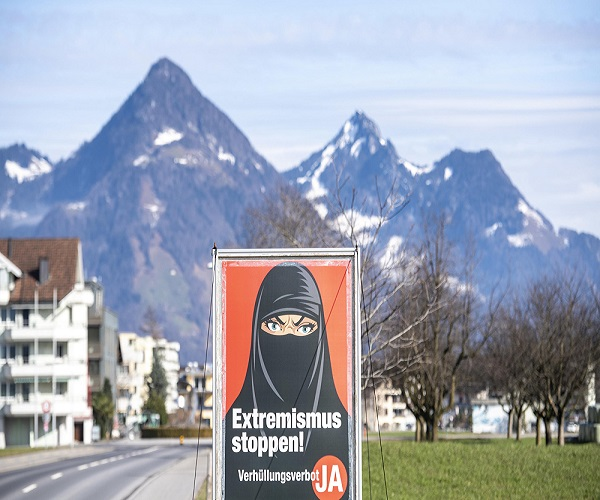
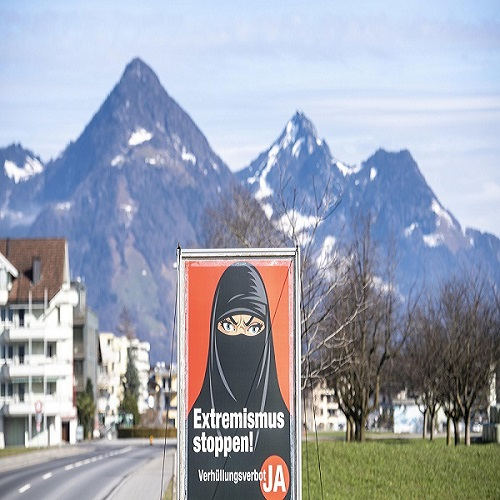
publish

diff --git a/Logics/autogenWorks.js b/Logics/autogenWorks.js
@@ -355,6 +355,60 @@ var DocuVale = [
     "content": [
         {
             "type": "end_preview",
+            "value": "Ristrutturato dopo quattro anni di lavori, il <a class=\"article_content_link_label_inline\" target=\"_blank\" href=\"https://www.parigi.it/it/museo_carnavalet.php\">Musée Carnavalet</a> di Parigi, dedicato alla storia della Ville Lumière, è in procinto di riaprire non appena il limbo pandemico lo consentirà. L’iniziativa del museo prevederebbe che alcuni percorsi guidati, principalmente quelli destinati a utenti con disabilità, vedranno l’uso dei numeri arabi in luogo di quelli romani. Tale decisione, che per altro fa seguito a una iniziativa simile dell’ancor più noto <strong>Louvre</strong>, è stata giustificata dalla curatrice Noémie Giard con il desiderio di “<strong>essere più vicini ai visitatori</strong>”, poiché “i numeri romani non possono diventare un ostacolo alla comprensione”. [...]"
+        },
+        {
+            "type": "text",
+            "value": "Alcuni direttori di musei insorgono: “Studiate il latino”"
+        },
+        {
+            "type": "link_inline",
+            "value": "...\nlink articolo"
+        },
+        {
+            "type": "image_inline",
+            "value": [
+                ".png",
+                "..."
+            ]
+        },
+        {
+            "type": "image_text_on_rigth",
+            "value": ".png\n..."
+        },
+        {
+            "type": "image_slide",
+            "value": [
+                ".png",
+                ".png",
+                ".png",
+                ".png",
+                ".png"
+            ]
+        },
+        {
+            "type": "link_ref",
+            "value": "htp//\nLink:\n..."
+        },
+        {
+            "type": "video",
+            "value": "htp//"
+        },
+        {
+            "type": "separator",
+            "value": ""
+        }
+    ],
+    "date": "20/03/2021",
+    "type": "Blog",
+    "title": "Introduzione dei numeri arabi nei musei: innovazione o regressione?",
+    "preview_image": "Foto/numeri/1.png",
+    "id": "Numeri"
+},
+{
+    "content": [
+        {
+            "type": "end_preview",
             "value": "Fra i numerosi atti emanati dal neo Presidente degli Stati Uniti d’America \n<strong>Joe Biden</strong>, vari riguardano il sostegno della comunità LGBT.In particolare, \noggi mi piacerebbe affrontare una questione che ha a che vedere con l’ordine esecutivo che stabilisce che un caso giudiziario sui <strong>diritti dei transgender</strong> si applica al <em>Titolo IX</em>, la legge federale che vieta la discriminazione basata \nsul sesso in qualsiasi scuola o altro programma educativo che riceve denaro federale. \nCon questa mossa, ritenuta da alcuni azzardata e tempestiva, Biden chiede a tutte le agenzie \nfederali il rispetto della sentenza con cui la Corte suprema ha esteso la definizione di \n“discriminazione sessuale” a qualsiasi comportamento discriminatorio basato \nsull’orientamento sessuale o sull’identità di genere  [...]"
         },
         {
@@ -480,8 +534,8 @@ var DocuVale = [
             "value": "La Svizzera ha approvato il referendum definito ‘<strong>anti-burqa</strong>’: i risultati definitivi mostrano che il testo di modifica costituzionale promosso dalla destra conservatrice e combattuto dal governo ha ottenuto il 51,2% di voti a favore da parte degli elettori svizzeri e l’adesione di 20 dei 26 cantoni, come riferisce l’agenzia di stampa <strong>Keystone-Ats</strong>. Il raggiungimento della maggioranza dei Cantoni era necessaria visto che il quesito tocca la Costituzione federale. [...]"
         },
         {
-            "type": "text",
-            "value": "La Svizzera ha approvato il referendum definito ‘<strong>anti-burqa</strong>’: i risultati definitivi mostrano che il testo di modifica costituzionale promosso dalla destra conservatrice e combattuto dal governo ha ottenuto il 51,2% di voti a favore da parte degli elettori svizzeri e l’adesione di 20 dei 26 cantoni, come riferisce l’agenzia di stampa <strong>Keystone-Ats</strong>. Il raggiungimento della maggioranza dei Cantoni era necessaria visto che il quesito tocca la Costituzione federale. \n<br><br>\nDunque, la nuova legge vieta la copertura del viso sia con il niqab che con il burqa, ma anche con passamontagna e bandane usate in occasione di manifestazioni nei luoghi pubblici, ovvero all’aria aperta e anche nei negozi. Lo scopo della legge approvata attraverso il referendum era quello di promuovere “l’uguaglianza, la libertà” ma anche e soprattutto la sicurezza: i suoi sostenitori, infatti, ritengono che questa legge impedirà alle donne di essere costrette a nascondere i loro volti e, inoltre, vieterà di nasconderlo per scopi criminali o terroristici. Il voto ha seguito anni di dibattito in Svizzera sul tema. Il quesito chiedeva: “<strong>Sei favorevole al divieto delle coperture totali del viso?</strong>”. Non si faceva alcun riferimento esplicito al burqa o al niqab [velo integrale che lascia scoperti solo gli occhi, n.d.r.], anche se gran parte del dibattito si è concentrato proprio su questo aspetto.\n<br><br>\nA dire il vero, sebbene questa decisione sia scaturita da piccolo comune del Canton Soletta, noto come Comitato di Egerkingen, cui manifesto iniziale scandiva le parole \"Il velo integrale è strettamente legato all'ideologia islamista radicale e contrario al nostro modello di vita\", per evitare che la votazione popolare si trasformasse in un attacco al mondo islamico come avvenne nel 2009 con la <a class=\"article_content_link_label_inline\" target=\"_blank\" href=\"https://www.repubblica.it/2009/11/sezioni/esteri/svizzera-referendum/svizzera-referendum/svizzera-referendum.html\">proibizione della costruzione di minareti</a>, l'iniziativa è stata denominata \"contro la dissimulazione del volto\". Di modo che riguarderà, pure, i teppisti e i manifestanti di piazza violenti che si nascondono dietro sciarpe o passamontagna, per non farsi individuare dalle telecamere della polizia. Tutto questo, non va dimenticato, mentre le forze dell'ordine in epoca di pandemia multano chi si rifiuta di indossare la mascherina.\n<br><br>\nIl risultato del voto rende di portata nazionale una legge di cui, nel 2013, si era fatto precursore il Canton Ticino. Seguito, successivamente, dal Canton San Gallo. In Ticino, nel 2017, si era tratto un bilancio delle multe erogate a donne con burqa e niqab, scoprendo che in 4 anni erano state appena 6. \"Ciò dimostra - spiega a Repubblica Pascal Sciarini, docente di Scienze Politiche all'Università di Ginevra - che in realtà non esiste un grosso problema con questi simboli islamici, piuttosto c'è il timore dell'islamizzazione della società svizzera\". Sciarini ci tiene ad aggiungere un elemento che ritiene fondamentale, per quello che è stato l'esito del voto. \"L'elemento è il seguente: nei Cantoni tradizionalmente progressisti, come quelli francofoni, l'iniziativa è passata anche perché, molto verosimilmente, diverse donne di sinistra hanno votato a favore, ritenendo burqa e niqab simboli di oppressione\".\n<br><br>\n\"Portare burqa e niqab - aveva dichiarato non a caso, durante un dibattito televisivo Marlyse Dormond, storica esponente socialista di Losanna - è come indossare una prigione ambulante\". Resta da capire se, alla vigilia dell'8 marzo, la sia pure temporanea conversione a destra di molte donne di sinistra, non si traduca in un regalo avvelenato. Da rilevare, infine, a risultato acquisito la presa di posizione preoccupata del Consiglio centrale islamico della Svizzera per il quale, ora, \"l'islamofobia è ancorata nella Costituzione\". \n<br><br>\nLa campagna per il Sì ha richiamato esplicitamente slogan come ‘Stop all’islam radicale’ e ‘Stop all’estremismo’. Al contrario, gli oppositori hanno chiesto di dire No alla legge anti-burqa, ritenuta \"inutile e islamofoba”."
+            "type": "image_text_on_rigth",
+            "value": "Foto/Velo/1.png\nLa Svizzera ha approvato il referendum definito ‘<strong>anti-burqa</strong>’: i risultati definitivi mostrano che il testo di modifica costituzionale promosso dalla destra conservatrice e combattuto dal governo ha ottenuto il 51,2% di voti a favore da parte degli elettori svizzeri e l’adesione di 20 dei 26 cantoni, come riferisce l’agenzia di stampa <strong>Keystone-Ats</strong>. Il raggiungimento della maggioranza dei Cantoni era necessaria visto che il quesito tocca la Costituzione federale. \n<br><br>\nDunque, la nuova legge vieta la copertura del viso sia con il niqab che con il burqa, ma anche con passamontagna e bandane usate in occasione di manifestazioni nei luoghi pubblici, ovvero all’aria aperta e anche nei negozi. Lo scopo della legge approvata attraverso il referendum era quello di promuovere “l’uguaglianza, la libertà” ma anche e soprattutto la sicurezza: i suoi sostenitori, infatti, ritengono che questa legge impedirà alle donne di essere costrette a nascondere i loro volti e, inoltre, vieterà di nasconderlo per scopi criminali o terroristici. Il voto ha seguito anni di dibattito in Svizzera sul tema. Il quesito chiedeva: “<strong>Sei favorevole al divieto delle coperture totali del viso?</strong>”. Non si faceva alcun riferimento esplicito al burqa o al niqab [velo integrale che lascia scoperti solo gli occhi, n.d.r.], anche se gran parte del dibattito si è concentrato proprio su questo aspetto.\n<br><br>\nA dire il vero, sebbene questa decisione sia scaturita da piccolo comune del Canton Soletta, noto come Comitato di Egerkingen, cui manifesto iniziale scandiva le parole \"Il velo integrale è strettamente legato all'ideologia islamista radicale e contrario al nostro modello di vita\", per evitare che la votazione popolare si trasformasse in un attacco al mondo islamico come avvenne nel 2009 con la <a class=\"article_content_link_label_inline\" target=\"_blank\" href=\"https://www.repubblica.it/2009/11/sezioni/esteri/svizzera-referendum/svizzera-referendum/svizzera-referendum.html\">proibizione della costruzione di minareti</a>, l'iniziativa è stata denominata \"contro la dissimulazione del volto\". Di modo che riguarderà, pure, i teppisti e i manifestanti di piazza violenti che si nascondono dietro sciarpe o passamontagna, per non farsi individuare dalle telecamere della polizia. Tutto questo, non va dimenticato, mentre le forze dell'ordine in epoca di pandemia multano chi si rifiuta di indossare la mascherina.\n<br><br>\nIl risultato del voto rende di portata nazionale una legge di cui, nel 2013, si era fatto precursore il Canton Ticino. Seguito, successivamente, dal Canton San Gallo. In Ticino, nel 2017, si era tratto un bilancio delle multe erogate a donne con burqa e niqab, scoprendo che in 4 anni erano state appena 6. \"Ciò dimostra - spiega a Repubblica Pascal Sciarini, docente di Scienze Politiche all'Università di Ginevra - che in realtà non esiste un grosso problema con questi simboli islamici, piuttosto c'è il timore dell'islamizzazione della società svizzera\". Sciarini ci tiene ad aggiungere un elemento che ritiene fondamentale, per quello che è stato l'esito del voto. \"L'elemento è il seguente: nei Cantoni tradizionalmente progressisti, come quelli francofoni, l'iniziativa è passata anche perché, molto verosimilmente, diverse donne di sinistra hanno votato a favore, ritenendo burqa e niqab simboli di oppressione\".\n<br><br>\n\"Portare burqa e niqab - aveva dichiarato non a caso, durante un dibattito televisivo Marlyse Dormond, storica esponente socialista di Losanna - è come indossare una prigione ambulante\". Resta da capire se, alla vigilia dell'8 marzo, la sia pure temporanea conversione a destra di molte donne di sinistra, non si traduca in un regalo avvelenato. Da rilevare, infine, a risultato acquisito la presa di posizione preoccupata del Consiglio centrale islamico della Svizzera per il quale, ora, \"l'islamofobia è ancorata nella Costituzione\". \n<br><br>\nLa campagna per il Sì ha richiamato esplicitamente slogan come ‘Stop all’islam radicale’ e ‘Stop all’estremismo’. Al contrario, gli oppositori hanno chiesto di dire No alla legge anti-burqa, ritenuta \"inutile e islamofoba”."
         },
         {
             "type": "image_inline",
@@ -516,7 +570,7 @@ var DocuVale = [
     "date": "15/03/2021",
     "type": "Blog",
     "title": "Velo si o velo no?",
-    "preview_image": "Foto/Velo/1.png",
+    "preview_image": "Foto/Velo/Sfondo.png",
     "id": "Velo"
 },
 {
